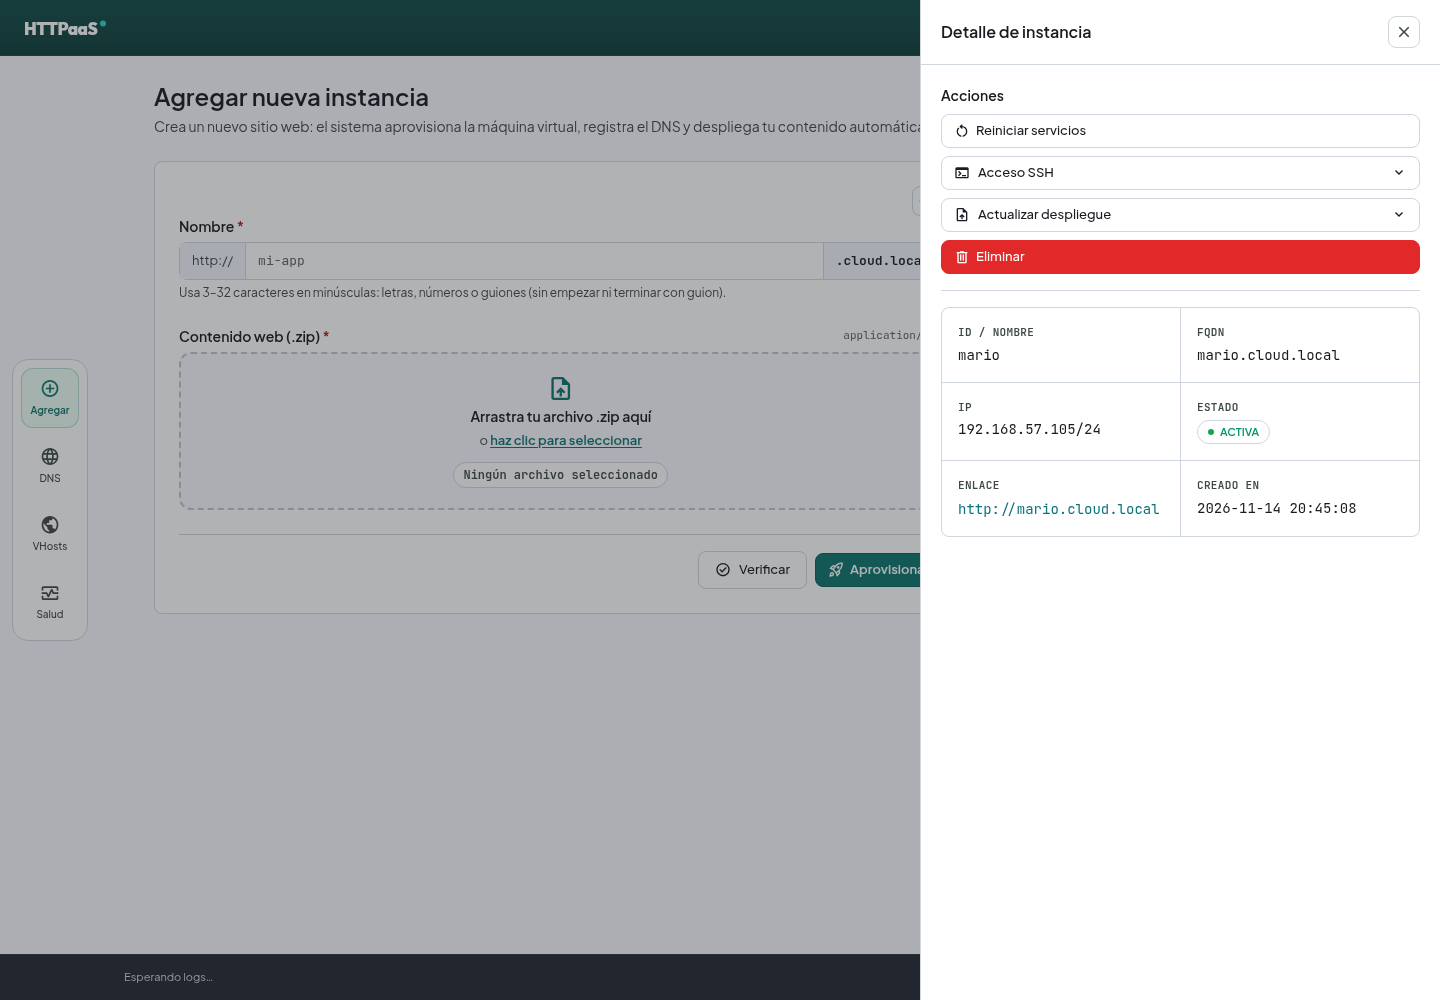
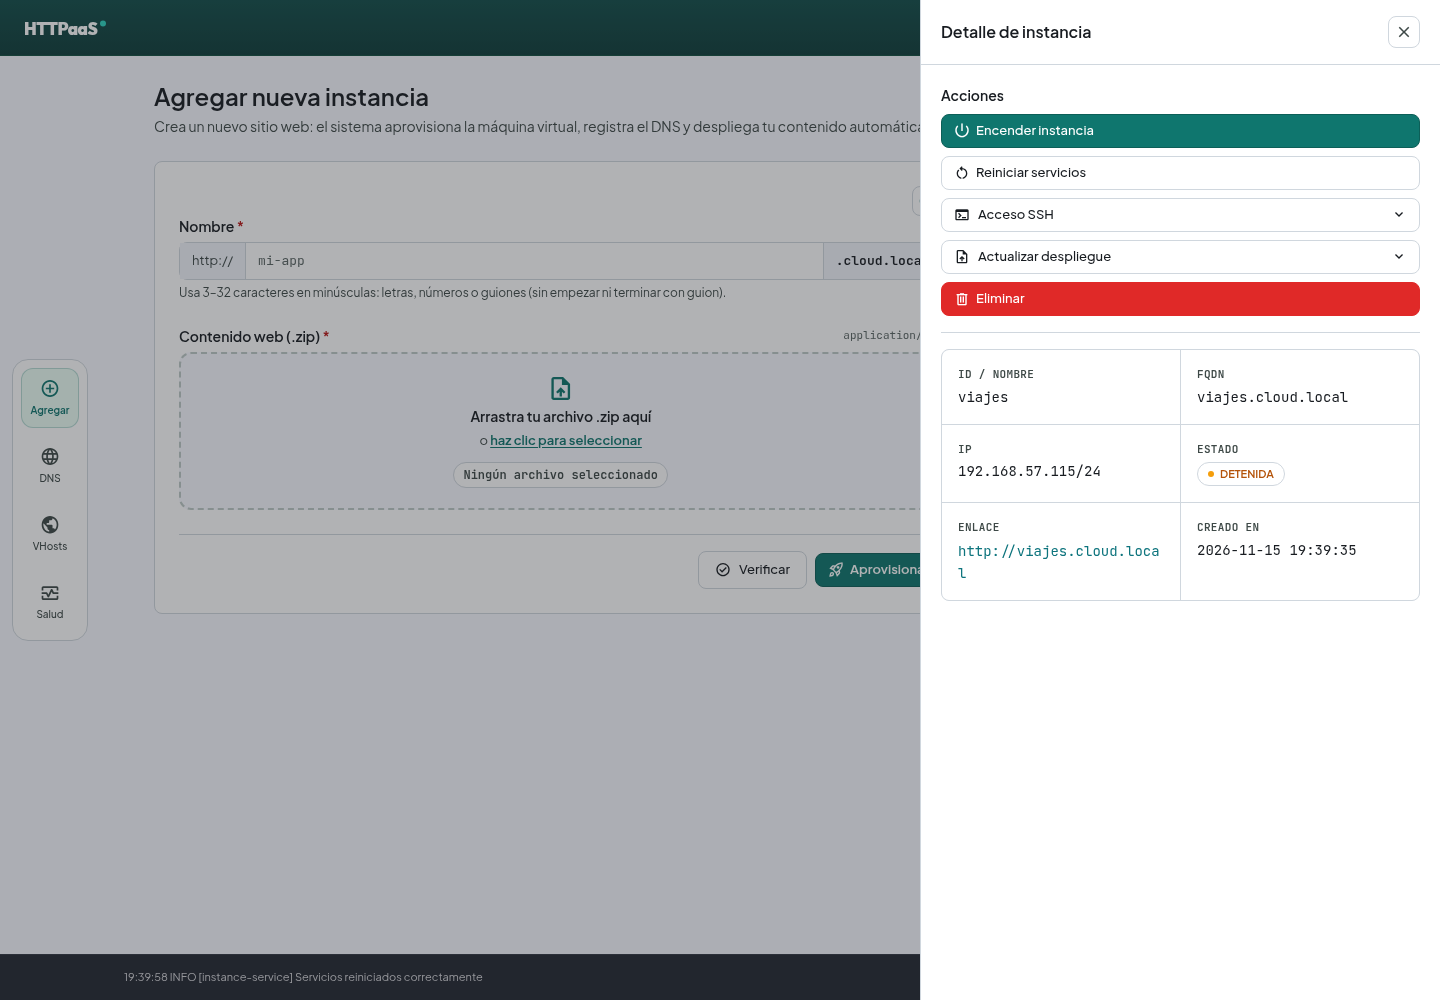
docs(informe): recapturar evidencias con la consola actual
- Panel con instancia detenida y botón Encender.
- Drawer con encendido, reinicio, acceso SSH, despliegue y eliminación.
- Registro con activación y reinicio de Apache.
- DNS y VHosts de la instancia vigente.
- Pies de figura actualizados; informe recompilado (9 páginas).

diff --git a/docs/informe/body/05-pruebas-evidencias.tex b/docs/informe/body/05-pruebas-evidencias.tex
@@ -25,21 +25,21 @@ Las capturas se obtuvieron con el laboratorio en ejecución y el navegador Chrom
 \begin{figure}[htbp]
 \centering
 \includegraphics[width=\linewidth]{images/panel-instancias.png}
-\caption{Panel de instancias: formulario de alta, listado y acceso al detalle.}
+\caption{Panel de instancias: alta, listado y botón \textbf{Encender} cuando la instancia está detenida.}
 \label{fig:panel_instancias}
 \end{figure}
 
 \begin{figure}[htbp]
 \centering
 \includegraphics[width=\linewidth]{images/detalle-acciones.png}
-\caption{Detalle de la instancia con acciones: reiniciar servicios, acceso SSH, actualizar despliegue y eliminar.}
+\caption{Detalle de la instancia con acciones: encender, reiniciar servicios, acceso SSH, actualizar despliegue y eliminar.}
 \label{fig:detalle_acciones}
 \end{figure}
 
 \begin{figure}[htbp]
 \centering
 \includegraphics[width=\linewidth]{images/registro-operativo.png}
-\caption{Registro operativo tras reiniciar Apache: eventos del servicio y del despliegue, sin ruido de peticiones HTTP.}
+\caption{Registro operativo: activación de la instancia y reinicio de Apache, sin ruido de peticiones HTTP.}
 \label{fig:registro_operativo}
 \end{figure}
 
